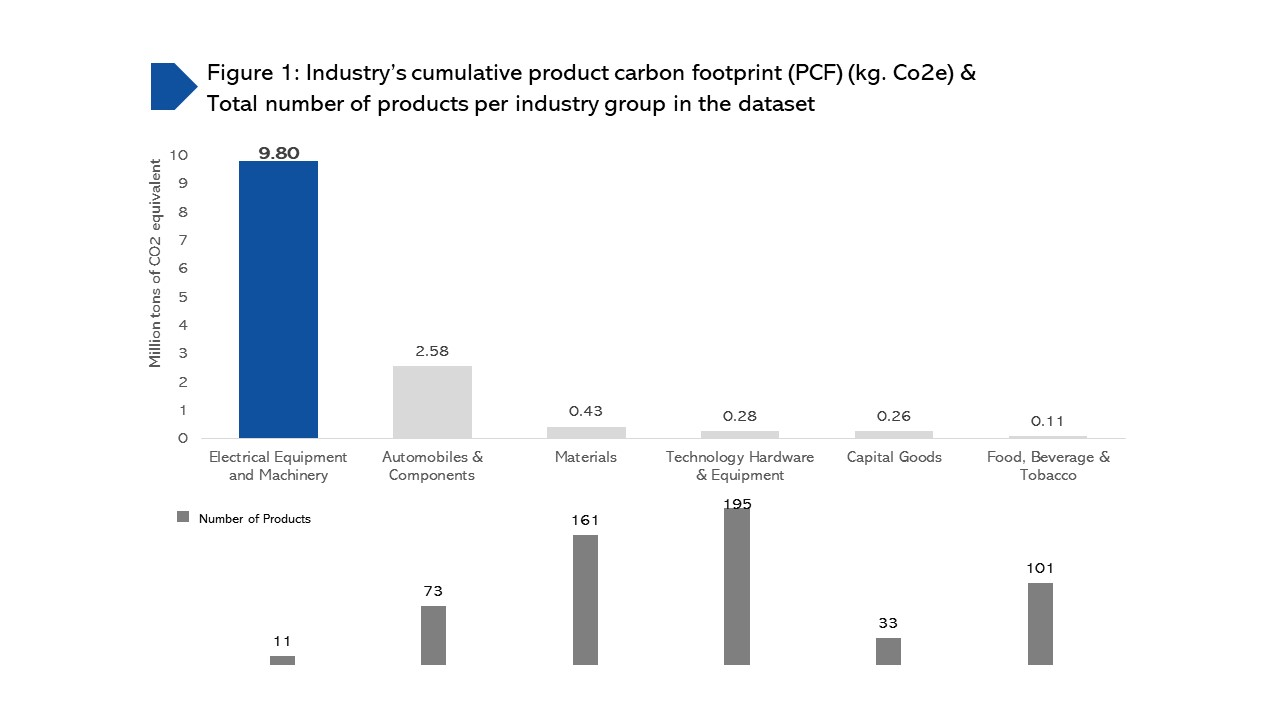
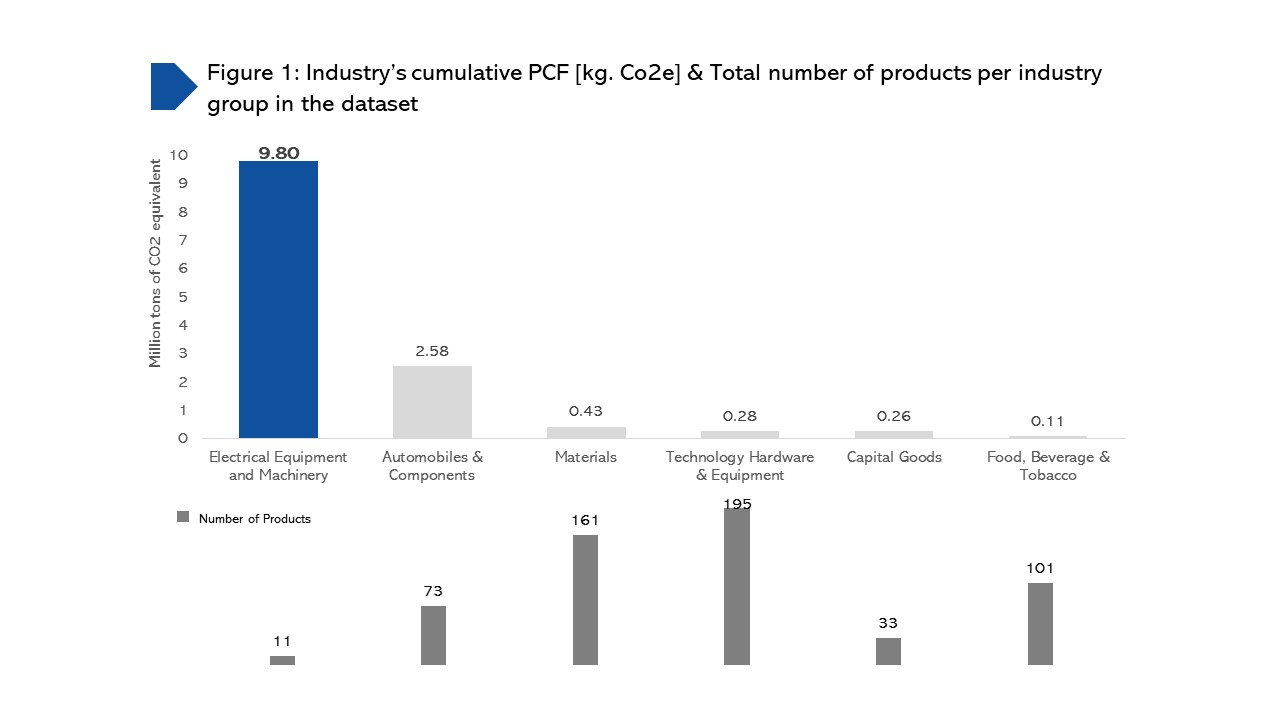
modified README.md, images, and tables

Changed region(s): [[0.1562, 0.0917, 0.875, 0.1528]]

diff --git a/README.md b/README.md
@@ -1,33 +1,35 @@
 # How does carbon accounting help companies reduce carbon emissions? 
-## An analysis using CDP data from 886 commercial products from 145 companies in 30 industry groups across 28 countries
+## An analysis using CDP data from 886 commercial products of 145 companies in 30 industry groups across 28 countries
 
-The world has witnessed extreme weather this year - from the raging floods in Pakistan, severe drought in east Africa, and record-breaking heatwaves sweeping across different cities in Europe and China. These events are a stark reminder of the unfolding climate change crisis 
-To mitigate the impacts of climate change, industry plays a crucial role by reducing its overall carbon emissions. According to the IPCC, it is estimated that industry, transport, and electricity accounted for 76% of total global greenhouse gas (GHG) emissions, while 24% derived from agriculture, forestry, or other land use. 
+The world has witnessed extreme weather this year - from the raging floods in Pakistan, severe drought in east Africa, and record-breaking heatwaves sweeping across different cities in Europe and China. These events are a stark reminder of the unfolding climate change crisis. To mitigate the impacts of climate change, industry plays a crucial role by reducing its overall carbon emissions. According to the IPCC, it is estimated that industry, transport, and electricity accounted for 76% of total global greenhouse gas (GHG) emissions, while 24% derived from agriculture, forestry, or other land use. 
 
-> Industry, transport, and electricity accounted for 76% of total greenhouse gas (GHG) emissions.
+> ##Industry, transport, and electricity accounted for 76% of total greenhouse gas (GHG) emissions.
 
-The industry thus adopts climate plans to combat the crisis. According to Jaller and Matthews (2021), there are two typical strategies - one is to reduce the industry’s future carbon footprint against the emissions levels of the past year, and the other is to improve the process efficiency to generate lesser emissions per unit of production – known as carbon intensity.
+The industry thus adopts climate plans to combat the crisis. According to Jaller and Matthews (2021)[^1], there are two typical strategies - one is to reduce the industry’s future carbon footprint against the emissions levels of the past year, and the other is to improve the process efficiency to generate lesser emissions per unit of production – known as carbon intensity.
 
 Carbon accounting is an essential process for the industry to measure GHG emissions. It allows the industry to identify where and how to reduce emissions along the value chain. Product carbon footprint (PCF) is a commonly used metric to quantify a product’s life cycle carbon emissions, allowing the industry to break down the emissions into “Scopes”. The use of scopes can be categorized as “scope 1” which encompasses emissions under the direct control of the industry, “scope 2” which is the indirect emissions associated with energy consumption, and “scope 3” which relates to the indirect emissions of the entire project life cycle. 
+
+> ##Carbon accounting allows the industry to identify where and how to reduce emissions along the value chain.
 
 According to the GHG Protocol, scope 3 emissions can be divided based on the industry’s upstream and downstream activities. The emissions from the upstream activities are based on the industry’s raw materials acquisition and production, while emissions from the product’s consumption are regarded as the downstream portion. 
 
 Carbon intensity is defined as the total PCF per product weight. The metric emphasizes both financial benefits and carbon performance to ensure efficient use of resources in the production process as the intensity improvement suggests that the industry implements a more efficient process - an important practice to transition into a more sustainable economy.
 
-The article aims to provide an overview of GHG emissions and identify areas where the industry should focus to improve its carbon emissions reduction strategies by looking at the GHG emissions from carbon footprint data reported to CDP (formerly the Carbon Disclosure Project) from 2013-2016. The dataset[^1] contains 886 commercial products from 145 companies in 30 industry groups across 28 countries. 
+The article aims to provide an overview of GHG emissions and identify areas where the industry should focus to improve its carbon emissions reduction strategies by looking at the GHG emissions from carbon footprint data reported to CDP (formerly the Carbon Disclosure Project) from 2013-2016. The dataset[^2] contains 886 commercial products from 145 companies in 30 industry groups across 28 countries. 
 
-**Figure 1** illustrates each industry's cumulative product carbon footprint (PCF) from 2013-2017. It points out that the PCF attributable to the manufacturer of Electrical Equipment and Machinery was the largest carbon emissions contributor, with almost 10 million kg. CO2 equivalent, despite having lesser representation in the dataset than other industry groups. 
+**Figure 1** illustrates each industry's cumulative product PCF from 2013-2017. It points out that the PCF attributable to the manufacturer of Electrical Equipment and Machinery was the largest carbon emissions contributor, with almost 10 million kg. CO2 equivalent, despite having lesser representation in the dataset than other industry groups. 
 
 ![fig1_carbon](./img/fig1_carbon.jpg)
 
 **Table 1** shows the PCF of each product in the Electrical Equipment and Machinery industry. Surprisingly, the Spanish company “Gamesa Corporación Tecnológica, S.A.”, specializing in wind energy production, appeared to be the biggest contributor to GHG emissions. The emissions from wind turbine production in 2015 alone totted up to 9.77 million kg. CO2 equivalent.
 
-Although the emissions of upstream and downstream activities are not available in the dataset to analyze the origin of emissions, it is reported that upstream raw materials needed for wind turbine production such as steel, aluminum, and epoxy resins are the largest sources of GHG emissions.[^2]
+Although the emissions of upstream and downstream activities are not available in the dataset to analyze the origin of emissions, it is reported that upstream raw materials needed for wind turbine production such as steel, aluminum, and epoxy resins are the largest sources of GHG emissions.[^3]
 
 ![table1_carbon](./img/table1_carbon.jpg)
 
+However, it is important to note that, as compared to other energy sources like coal-fired, natural gas, and solar energy, wind power generates a significantly lesser carbon footprint over the product’s life span[^4] and is widely encouraged to counter the climate crisis. To better track GHG emissions from the production process, carbon intensity is adopted by various entities to identify areas of improvement. 
 
-However, it is important to note that, as compared to other energy sources like coal-fired, natural gas, and solar energy, wind power generates a significantly lesser carbon footprint over the product’s life span[^3] and is widely encouraged to counter the climate crisis. To better track GHG emissions from the production process, carbon intensity is adopted by various entities to identify areas of improvement. **Figure 2** depicts the normalized distribution of carbon intensity of each industry group from 2013-2017. The industry group that has a value of 1 represents the highest value in each year, and a value of 0 represents the industry group with the lowest value in each year. Due to insufficient reported product-level data, only certain industry groups were shown. 
+**Figure 2** depicts the normalized distribution of carbon intensity of each industry group from 2013-2017. The distribution is normalized between the highest value and lowest value in each year. Due to insufficient reported product-level data, only certain industry groups were shown. 
 
 ![fig2_carbon](./img/fig2_carbon.jpg)
 
@@ -37,12 +39,12 @@ The chart shows that Technology Hardware & Equipment had the highest carbon inte
 
 ![table2_carbon](./img/table2_carbon.jpg)
 
-Many studies have shown the benefits of emissions reduction. This article points out the importance of a product carbon footprint (PCF) and carbon intensity to quantify GHG emissions and identify areas of improvement in the product’s value chain. 
+Many studies have shown the benefits of emissions reduction. This article points out the importance of PCF and carbon intensity to quantify GHG emissions and identify areas of improvement in the product’s value chain. 
 
 The PCF studies allow a company to analyze the breakdown of a product’s life cycle emissions, while carbon intensity-based metrics determine whether the resources used in the production process are optimized. To achieve net-zero emissions, significant adjustments are requisite. A company can thus yield an insight analysis to reduce inefficiencies and foster innovative solutions. 
 
 
-
-[^1]: The dataset was taken from the study Meinrenken, C.J., Chen, D., Esparza, R.A. et al. The Carbon Catalogue, carbon footprints of 866 commercial products from 8 industry sectors and 5 continents. Sci Data 9, 87 (2022). https://doi.org/10.1038/s41597-022-01178-9, accessible at The Carbon Catalogue, carbon footprints of 866 commercial products from 8 industry sectors and 5 continents | Scientific Data (nature.com).  
-[^2]: How Green Is Wind Power, Really? A New Report Tallies Up The Carbon Cost Of Renewables (forbes.com)
+[^1]: Jaller, M., Matthews, S., Can Carbon Intensity Metrics Help Achieve Net Carbon Reductions?
+[^2]: Meinrenken, C.J., Chen, D., Esparza, R.A. et al. The Carbon Catalogue, carbon footprints of 866 commercial products from 8 industry sectors and 5 continents. Sci Data 9, 87 (2022). 
 [^3]: How Green Is Wind Power, Really? A New Report Tallies Up The Carbon Cost Of Renewables (forbes.com)
+[^4]: How Green Is Wind Power, Really? A New Report Tallies Up The Carbon Cost Of Renewables (forbes.com)
